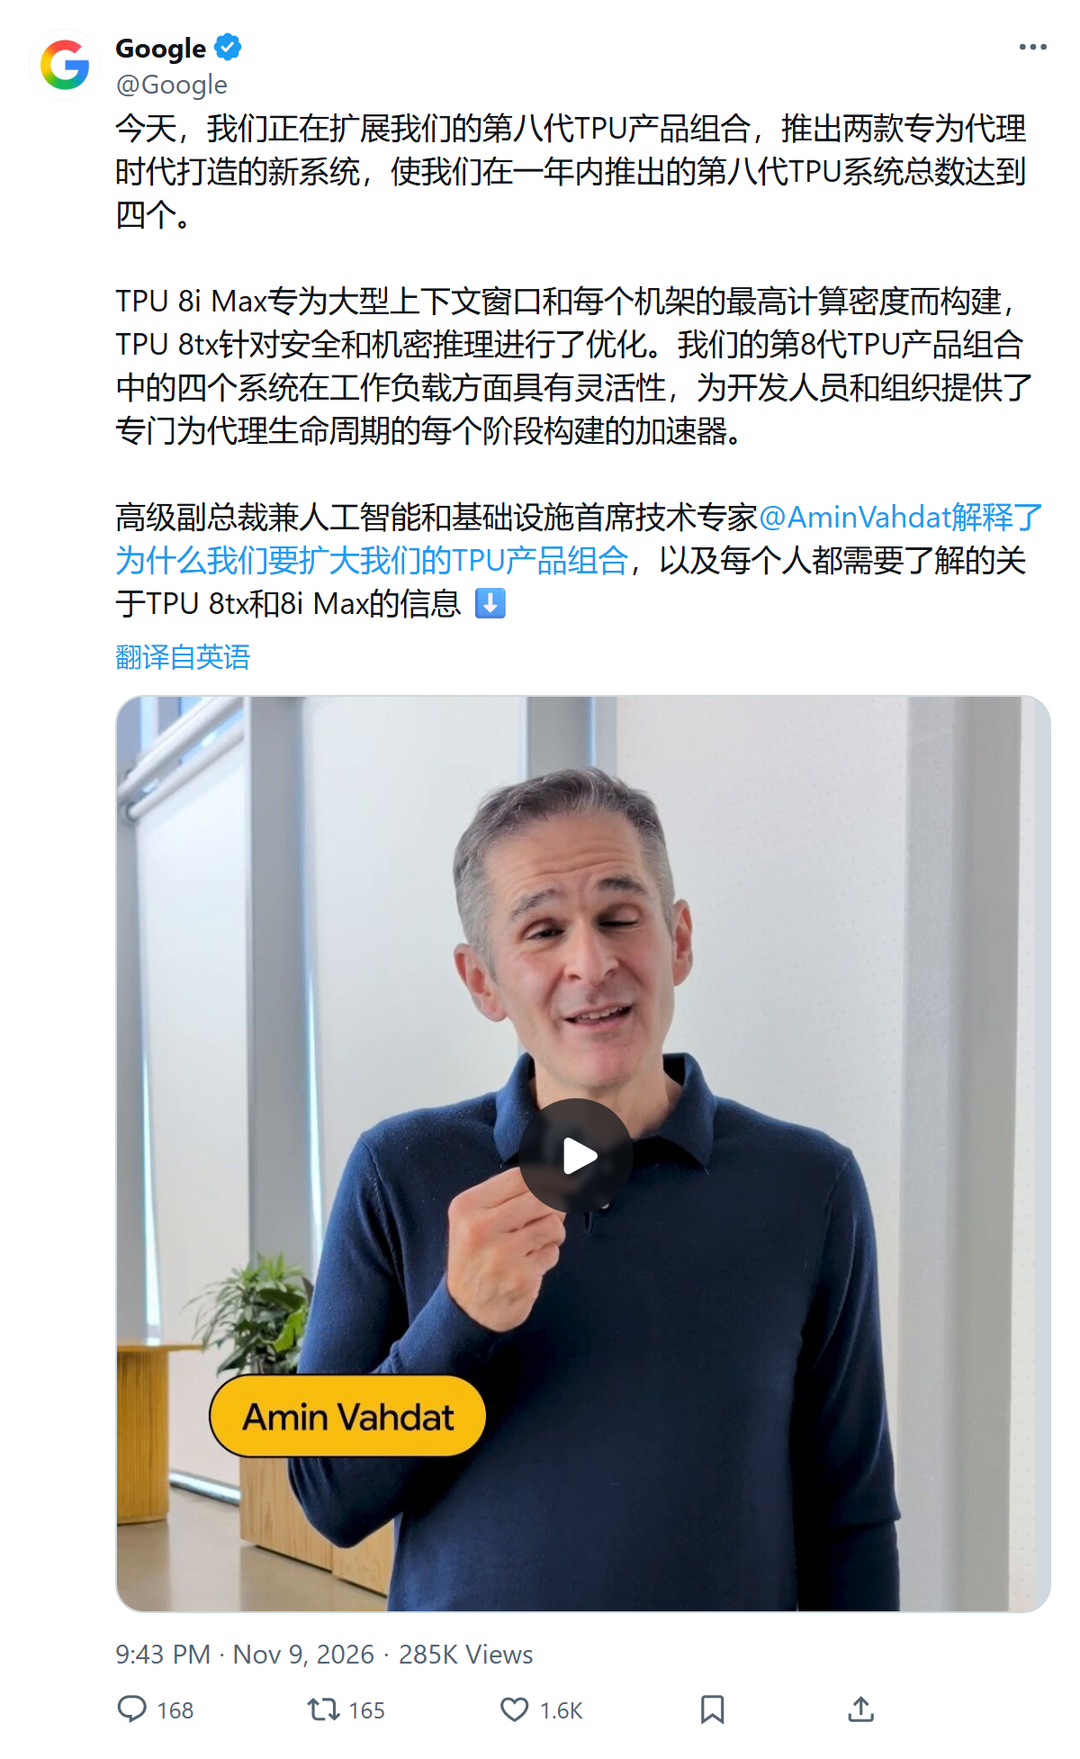
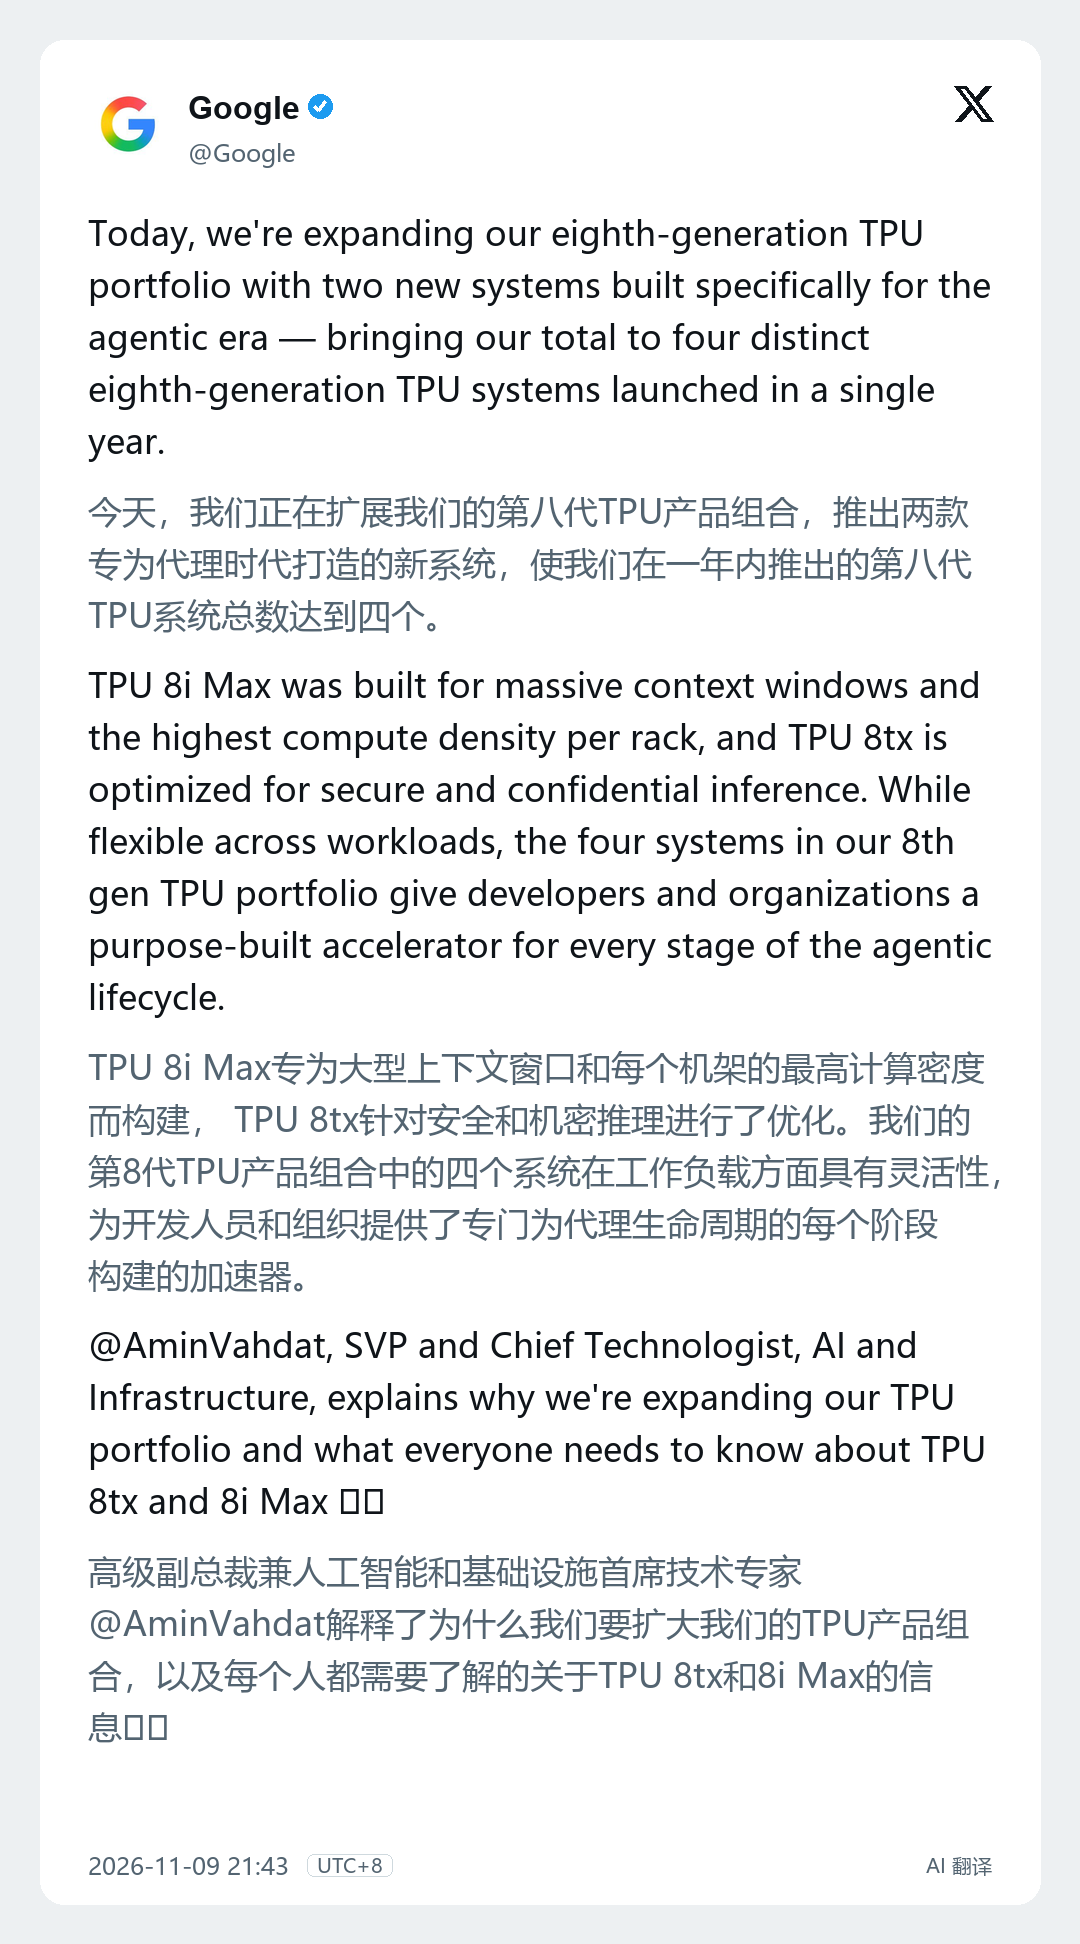
chore(x): 只用最新版 x-post2image 2.1.5，版式交给规范判断

diff --git a/data/digests/site/2026-11-10.html b/data/digests/site/2026-11-10.html
@@ -285,7 +285,7 @@
         </li>
         <li class="item" id="e-ec54a3266b57027">
           <div class="item__head"><span class="item__no">10</span><h3 class="item__title"><a href="https://blog.google/innovation-and-ai/infrastructure-and-cloud/global-network/tpu-8i-max-and-8tx/" target="_blank" rel="noopener noreferrer">Google 发布 TPU 8tx 和 TPU 8i Max</a></h3></div>
-          <div class="item__images"><button type="button" class="item__thumb" data-full="https://cdn.jsdelivr.net/gh/siweimidu/ai-daily-media@main/2026-11-10/ec54a3266b57027-m001-f662b4e2.webp" aria-label="放大图片"><img src="https://cdn.jsdelivr.net/gh/siweimidu/ai-daily-media@main/2026-11-10/ec54a3266b57027-m001-f662b4e2.webp" alt="" loading="lazy" decoding="async" onerror="this.closest(.item__thumb).remove()"></button></div><figure class="item__x"><a class="item__x-open" href="#xz-ec54a3266b57027" aria-label="查看原帖大图"><img src="assets/x/2119788086490001906.png?v=989737" alt="原帖" loading="lazy" decoding="async"></a><figcaption>原帖截图 · 点击看大图 · <a href="https://x.com/i/status/2119788086490001906" target="_blank" rel="noopener noreferrer">打开 X</a></figcaption></figure><div class="xzoom" id="xz-ec54a3266b57027"><a class="xzoom__backdrop" href="#e-ec54a3266b57027" aria-label="关闭"></a><img src="assets/x/2119788086490001906.png?v=989737" alt="原帖大图"><a class="xzoom__close" href="#e-ec54a3266b57027" aria-label="关闭">×</a></div>
+          <div class="item__images"><button type="button" class="item__thumb" data-full="https://cdn.jsdelivr.net/gh/siweimidu/ai-daily-media@main/2026-11-10/ec54a3266b57027-m001-f662b4e2.webp" aria-label="放大图片"><img src="https://cdn.jsdelivr.net/gh/siweimidu/ai-daily-media@main/2026-11-10/ec54a3266b57027-m001-f662b4e2.webp" alt="" loading="lazy" decoding="async" onerror="this.closest(.item__thumb).remove()"></button></div><figure class="item__x"><a class="item__x-open" href="#xz-ec54a3266b57027" aria-label="查看原帖大图"><img src="assets/x/2119788086490001906.png?v=318376" alt="原帖" loading="lazy" decoding="async"></a><figcaption>原帖截图 · 点击看大图 · <a href="https://x.com/i/status/2119788086490001906" target="_blank" rel="noopener noreferrer">打开 X</a></figcaption></figure><div class="xzoom" id="xz-ec54a3266b57027"><a class="xzoom__backdrop" href="#e-ec54a3266b57027" aria-label="关闭"></a><img src="assets/x/2119788086490001906.png?v=318376" alt="原帖大图"><a class="xzoom__close" href="#e-ec54a3266b57027" aria-label="关闭">×</a></div>
           
           <div class="item__meta">
             <span class="badge" data-level="multi_source">多源交叉验证</span>

diff --git a/src/aidaily/xhigh.py b/src/aidaily/xhigh.py
@@ -1,13 +1,8 @@
-"""X 卡片渲染。
+"""X 卡片渲染：一律用最新版 x-post2image，版式交给它自己判断。
 
-**为什么用 x-post2image-2page 而不是主版本。**
-主版本 2.1.5 的跨页在长文上会自动扩到三张（实测同一篇 1604×687，三页并排）；
-而页面上要的是**两张横排**。2.1.0 的跨页给 1080×900，正是两张。所以渲染走 2.1.0 那份，
-主版本仍然装着、也仍然是最新的 —— 等上游支持「最多两页」再切回去。
-
-规则和 skill 一致：
-  · 短帖（≤ 400 字）→ 单页原生卡片，字号正常；
-  · 长帖 → 跨页两栏，页高 900。
+规范（SKILL.md）：正文 ≥ 360 字自动切成 X 官方风格长卡；长卡高过 1400px 再自动变左右多页；
+内容更多时才扩到三张。**所以不传 `--layout`、不传 `--long-height`** —— 任何手写的分支和
+固定页高都会盖掉规范里的判断，前面就是那样把两张顶成了三张、又把三张压回两张。
 """
 
 from __future__ import annotations
@@ -23,17 +18,11 @@ _X_STATUS = re.compile(
     r"https?://(?:www\.|mobile\.)?(?:x|twitter)\.com/([A-Za-z0-9_]{1,20})/status/(\d{6,25})"
 )
 
-#: 渲染器：两页版（见模块开头）。
-CLI = Path.home() / ".agents" / "skills" / "x-post2image-2page" / "scripts" / "x-post2image.mjs"
+#: 渲染器：用户级 skills 目录里的最新版本。
+CLI = Path.home() / ".agents" / "skills" / "x-post2image" / "scripts" / "x-post2image.mjs"
 
-#: 卡片统一宽度。
+#: 卡片统一宽度。单页原生 1200，跨页 1604；统一到 1080 后页面里才齐。
 CARD_W = 1080
-
-#: 跨页的页高。900 是两页版里唯一稳定给出「两张」的值。
-SPREAD_HEIGHT = 900
-
-#: 超过这个字数按跨页渲染。
-LONG_THRESHOLD_CHARS = 400
 
 #: 一期最多几张卡。
 MAX_CARDS = 4
@@ -52,10 +41,11 @@ class XPost:
     likes: str = ""
     reposts: str = ""
     views: str = ""
-    layout: str = "single"
+    layout: str = "auto"
 
 
 def extract_posts(html: str) -> list[tuple[str, str]]:
+    """页面里出现过的原帖，按 id 去重并保持出现顺序。"""
     seen: set[str] = set()
     out: list[tuple[str, str]] = []
     for user, status in _X_STATUS.findall(html or ""):
@@ -66,43 +56,27 @@ def extract_posts(html: str) -> list[tuple[str, str]]:
     return out
 
 
-def _run(url: str, target: Path, layout: str) -> dict | None:
+def render(post_id: str, url: str, out_dir: Path) -> XPost | None:
+    """渲染一张卡片。版式交给渲染器，失败返回 None，绝不编造。"""
+    out_dir.mkdir(parents=True, exist_ok=True)
+    target = out_dir / f"{post_id}.png"
     cmd = [
         "node", str(CLI), url,
         "--out", str(target),
         "--theme", "light",
-        "--layout", layout,
         "--translate", "zh-CN",
         "--json",
     ]
-    if layout == "spread":
-        cmd.extend(["--long-height", str(SPREAD_HEIGHT)])
     try:
-        done = subprocess.run(cmd, capture_output=True, text=True, encoding="utf-8", timeout=240)
+        done = subprocess.run(cmd, capture_output=True, text=True, encoding="utf-8", timeout=300)
     except (OSError, subprocess.TimeoutExpired):
         return None
     if done.returncode != 0 or not target.exists():
         return None
     try:
-        return json.loads(done.stdout)
+        payload = json.loads(done.stdout)
     except ValueError:
-        return {"url": url}
-
-
-def render(post_id: str, url: str, out_dir: Path) -> XPost | None:
-    out_dir.mkdir(parents=True, exist_ok=True)
-    target = out_dir / f"{post_id}.png"
-
-    payload = _run(url, target, "single")
-    if payload is None:
-        return None
-    layout = "single"
-
-    if len(payload.get("text") or "") > LONG_THRESHOLD_CHARS:
-        spread = _run(url, target, "spread")
-        if spread is not None:
-            payload = spread
-            layout = "spread"
+        payload = {"url": url}
 
     author = payload.get("author") or {}
     if isinstance(author, dict):
@@ -124,7 +98,7 @@ def render(post_id: str, url: str, out_dir: Path) -> XPost | None:
         likes=str(metrics.get("likes") or ""),
         reposts=str(metrics.get("reposts") or ""),
         views=str(metrics.get("views") or ""),
-        layout=layout,
+        layout=str(payload.get("layout") or "auto"),
     )
 
 
